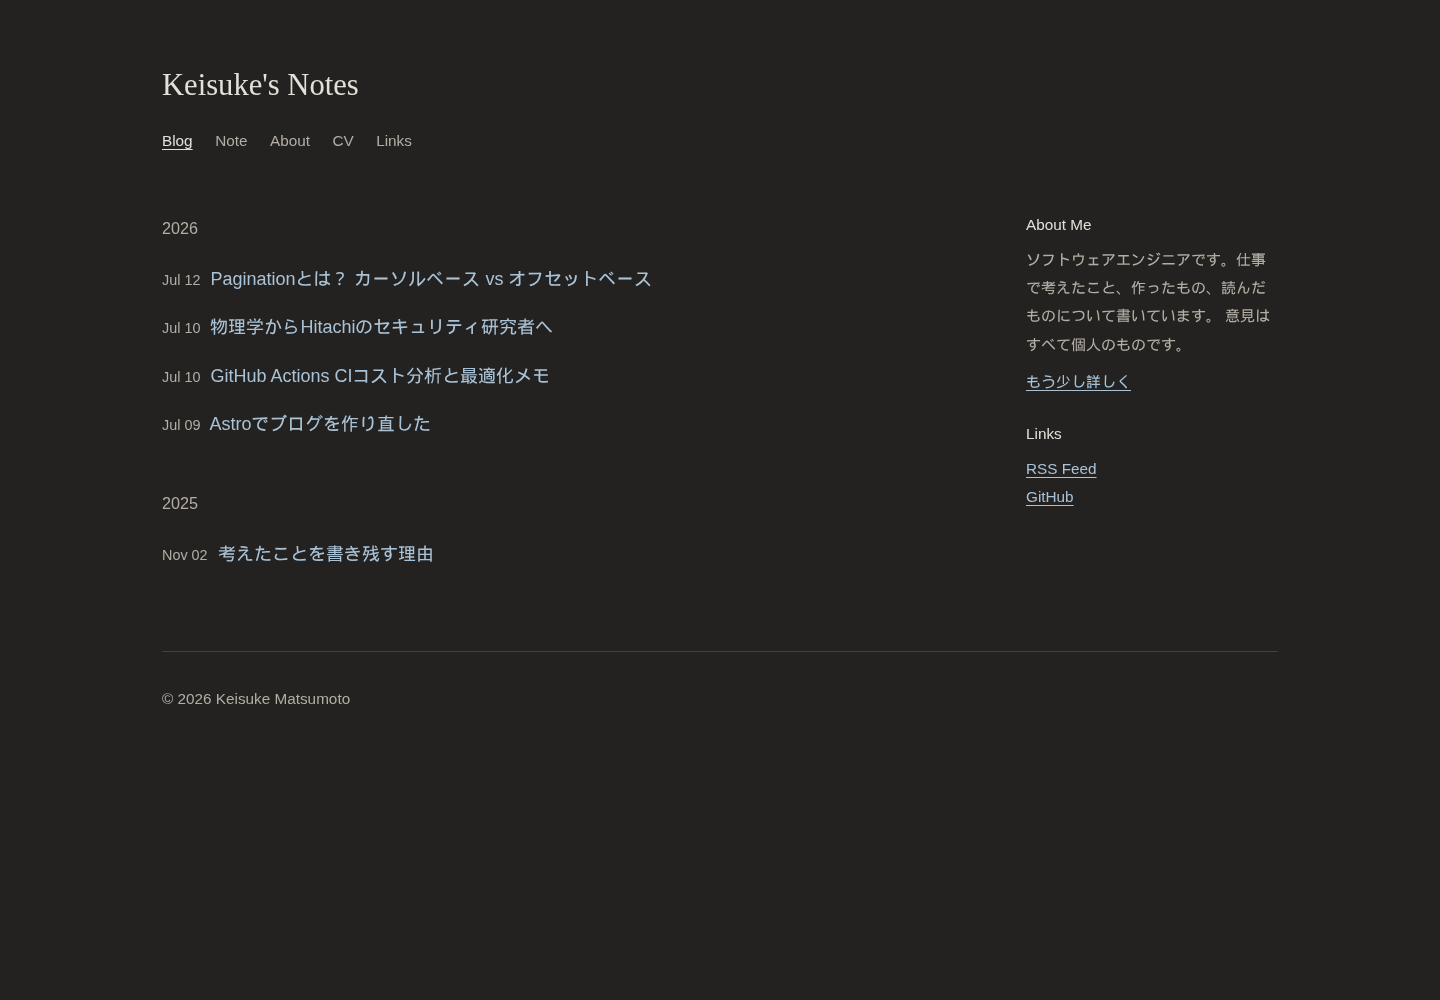
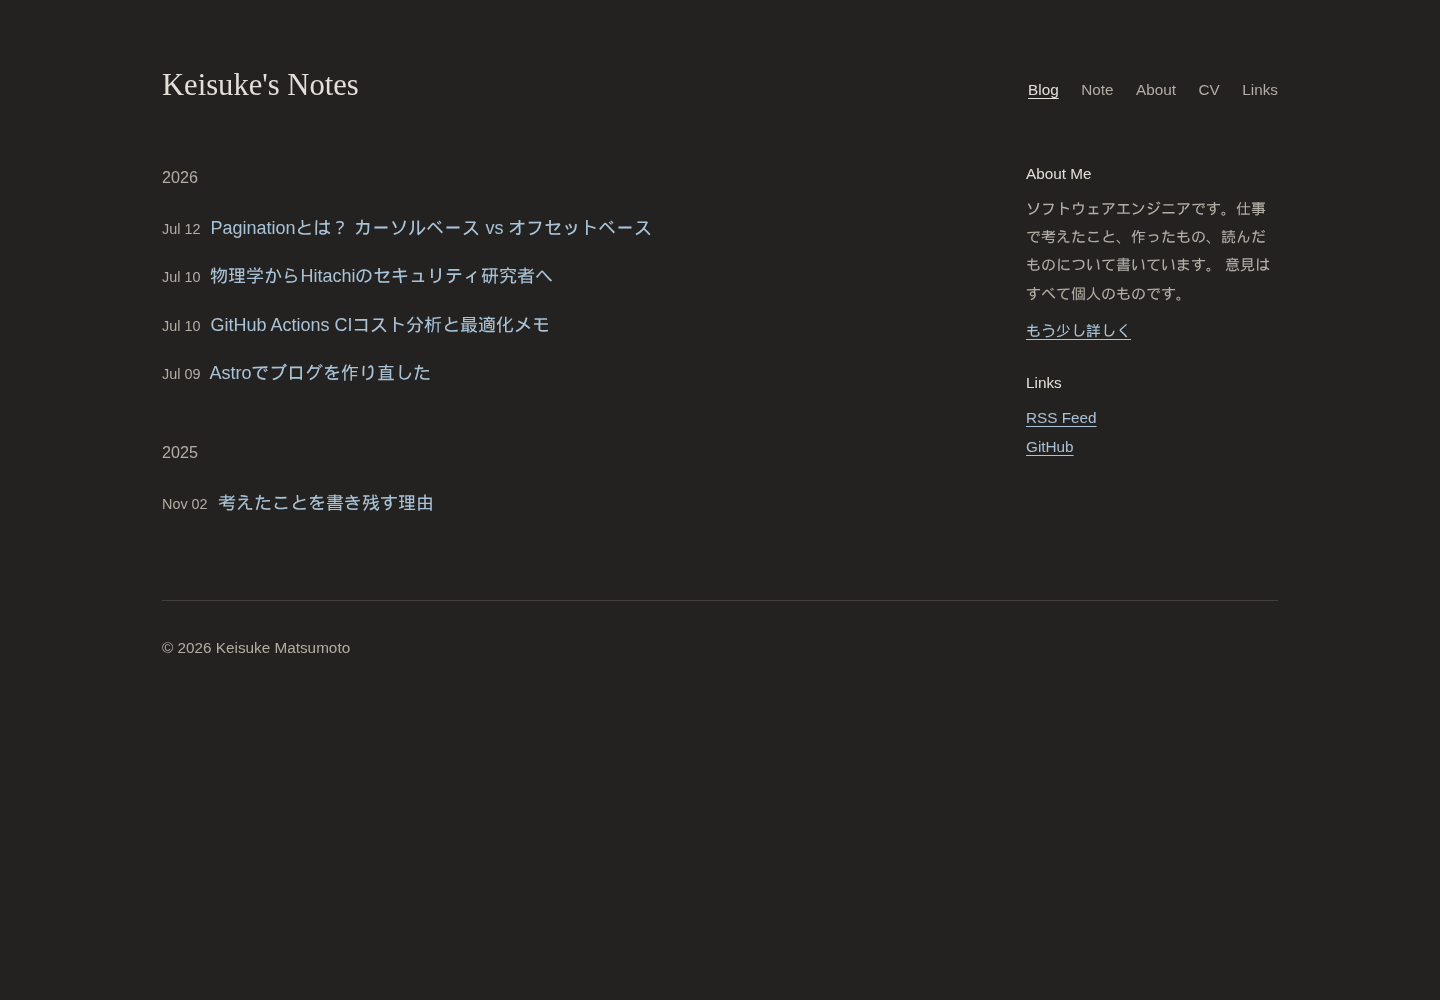
Restore right-aligned header navigation

diff --git a/src/styles/global.css b/src/styles/global.css
@@ -35,6 +35,11 @@ body {
 }
 
 .site-title {
+  display: flex;
+  align-items: baseline;
+  justify-content: space-between;
+  flex-wrap: wrap;
+  gap: 1.25rem;
   margin-bottom: 3rem;
 }
 
@@ -58,7 +63,7 @@ nav.site-nav {
   display: flex;
   flex-wrap: wrap;
   gap: 1.25rem;
-  margin-top: 0.75rem;
+  margin-left: auto;
   font-size: 0.85rem;
 }
 
